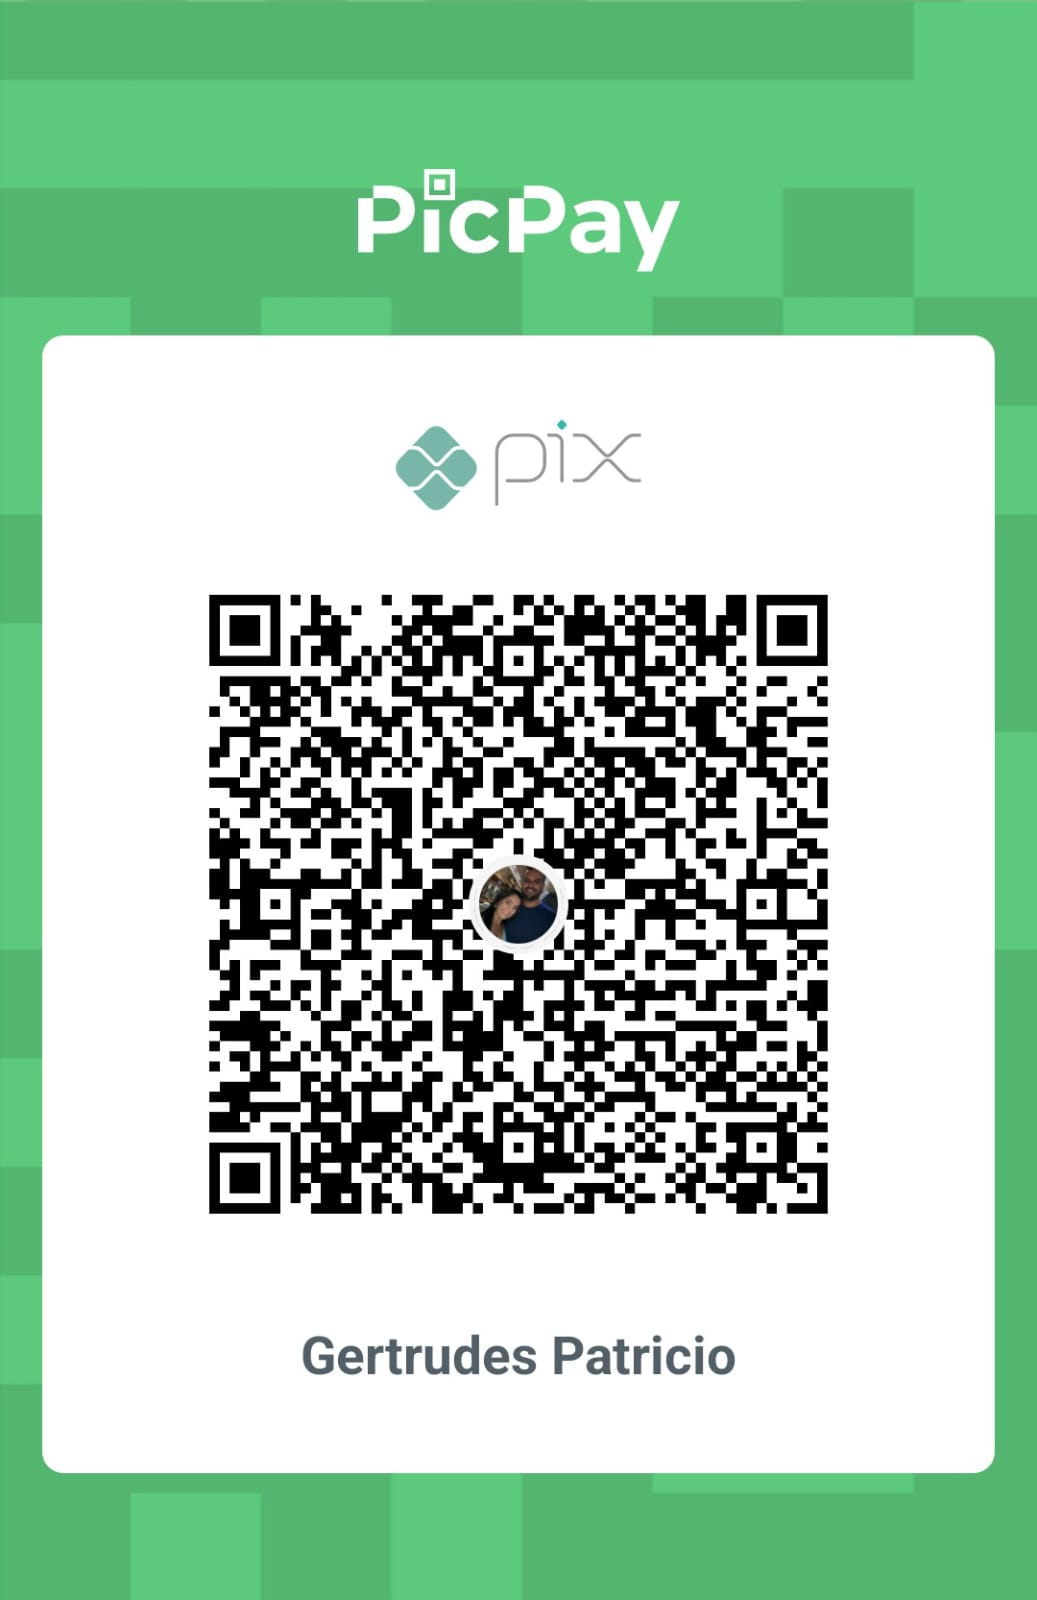
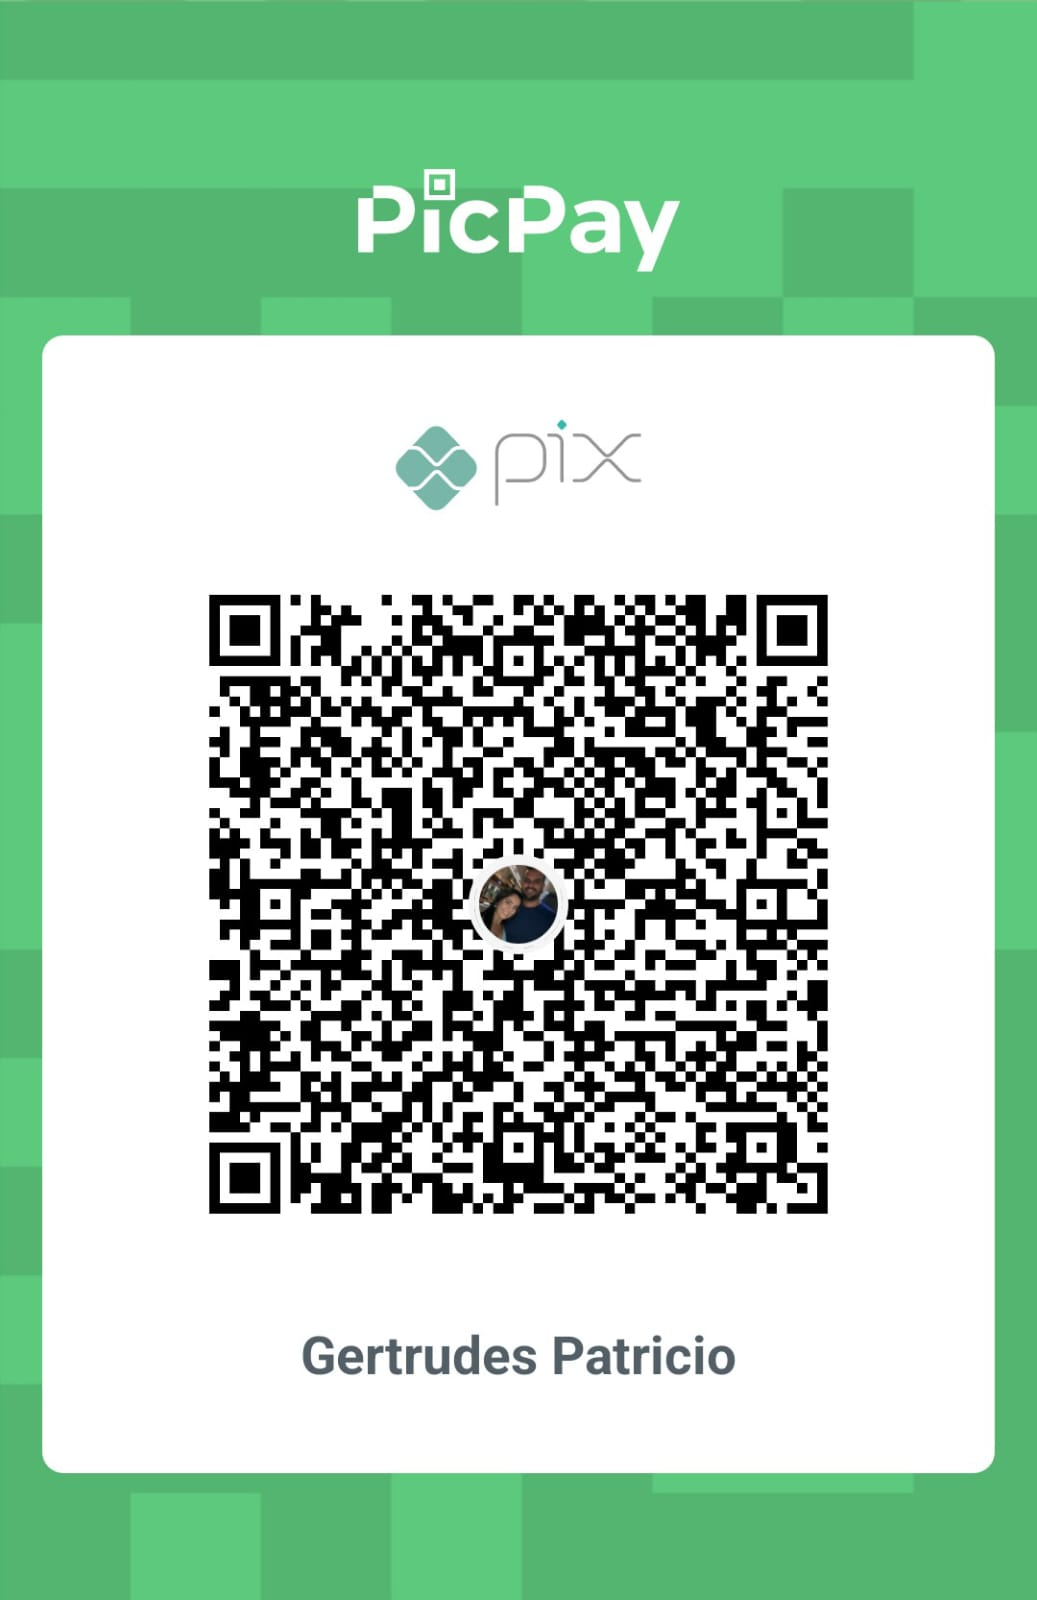
ii

diff --git a/src/components/GiftList.jsx b/src/components/GiftList.jsx
@@ -26,16 +26,16 @@ const gifts = [
   {
     image: './images/presente04N.jpg',
     description: 'Cesta de Café da Manhã do Dia Seguinte',
-    price: 'R$ 160,00',
+    price: 'R$ 165,00',
     qrcode: './images/qrcode/qrcode01.jpeg',
-    copiaecola: '00020126580014br.gov.bcb.pix0136fc1d14fd-705d-4ac8-8315-e4e87f232c915204000053039865406160.005802BR5924Gertrudes Souza Patricio6009Sao Paulo62070503***63043D08',
+    copiaecola: '00020126580014br.gov.bcb.pix0136fc1d14fd-705d-4ac8-8315-e4e87f232c915204000053039865406165.005802BR5924Gertrudes Souza Patricio6009Sao Paulo62070503***630453CA',
   },
   {
     image: './images/presente05.jpg',
     description: 'Aluguel de um bebê para treinamento',
-    price: 'R$ 300,00',
+    price: 'R$ 310,00',
     qrcode: './images/qrcode/qrcode13.jpeg',
-    copiaecola: '00020126580014br.gov.bcb.pix0136fc1d14fd-705d-4ac8-8315-e4e87f232c915204000053039865406300.005802BR5924Gertrudes Souza Patricio6009Sao Paulo62070503***63043D56',
+    copiaecola: '00020126580014br.gov.bcb.pix0136fc1d14fd-705d-4ac8-8315-e4e87f232c915204000053039865406310.005802BR5924Gertrudes Souza Patricio6009Sao Paulo62070503***63042B1E',
   },
   {
     image: './images/presente210.jpg',
@@ -61,9 +61,9 @@ const gifts = [
   {
     image: './images/presente09.jpg',
     description: 'Conjunto de controle remotos para não ter briga',
-    price: 'R$ 180,00',
+    price: 'R$ 185,00',
     qrcode: './images/qrcode/qrcode03.jpeg',
-    copiaecola: '00020126580014br.gov.bcb.pix0136fc1d14fd-705d-4ac8-8315-e4e87f232c915204000053039865406180.005802BR5924Gertrudes Souza Patricio6009Sao Paulo62070503***6304FAF8',
+    copiaecola: '00020126580014br.gov.bcb.pix0136fc1d14fd-705d-4ac8-8315-e4e87f232c915204000053039865406185.005802BR5924Gertrudes Souza Patricio6009Sao Paulo62070503***6304943A',
   },
   {
     image: './images/presente10.jpg',
@@ -96,9 +96,9 @@ const gifts = [
   {
     image: './images/presenteParaguai.jpg',
     description: 'Ajuda para comprinhas no Paraguai',
-    price: 'R$ 500,00',
+    price: 'R$ 600,00',
     qrcode: './images/qrcode/qrcode20.jpeg',
-    copiaecola: '00020126580014br.gov.bcb.pix0136fc1d14fd-705d-4ac8-8315-e4e87f232c915204000053039865406500.005802BR5924Gertrudes Souza Patricio6009Sao Paulo62070503***6304A364',
+    copiaecola: '00020126580014br.gov.bcb.pix0136fc1d14fd-705d-4ac8-8315-e4e87f232c915204000053039865406600.005802BR5924Gertrudes Souza Patricio6009Sao Paulo62070503***6304EC7D',
   },
   {
     image: './images/presenteRoteiro.png',
